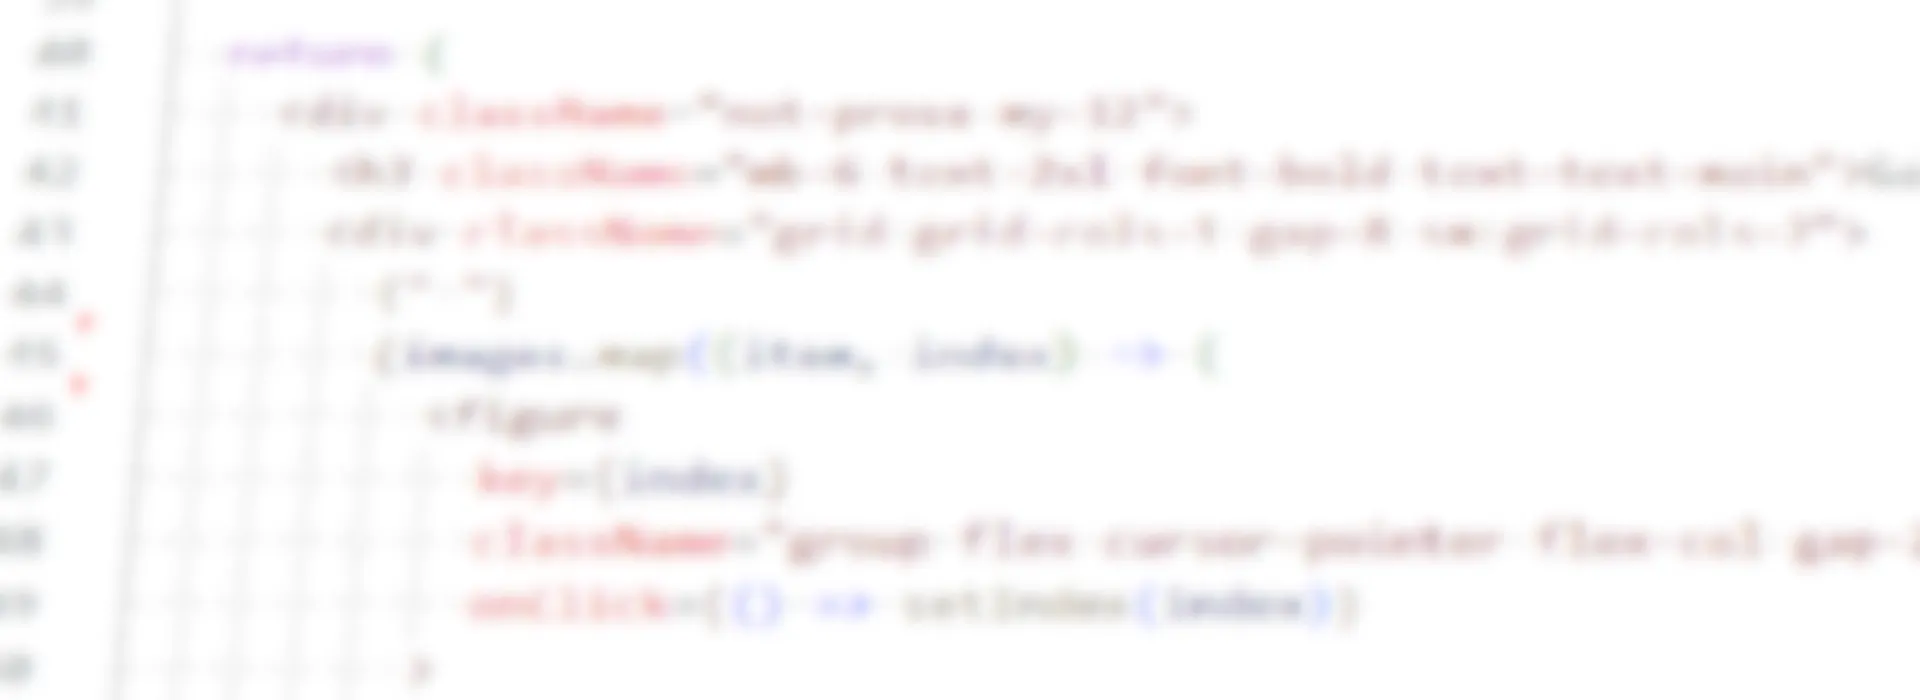
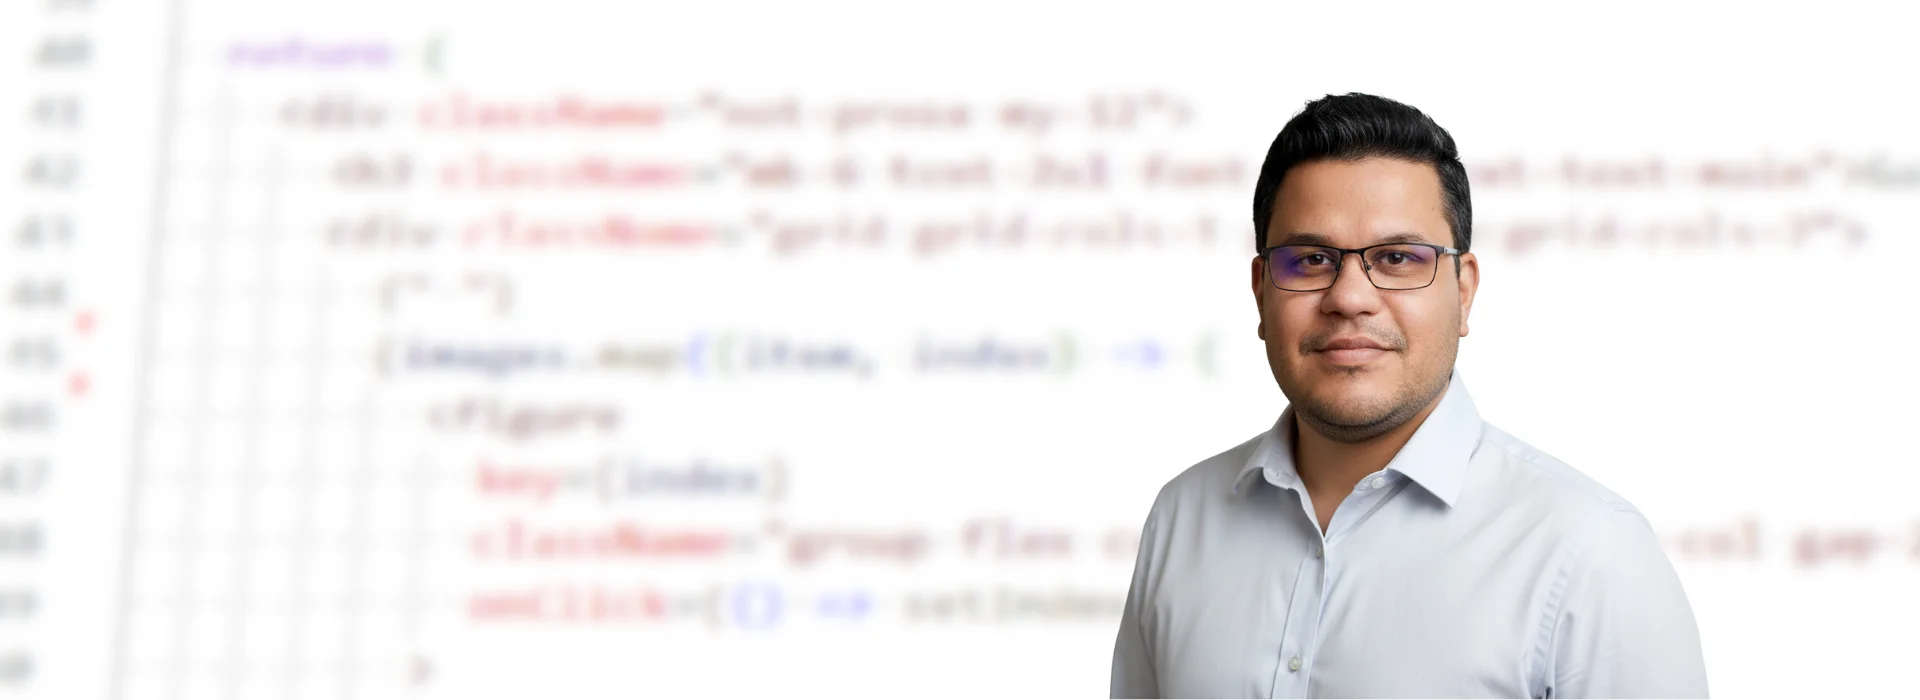
chore: general blog & hero adjustments

Changed region(s): [[0.5625, 0.12, 0.9062, 1.0]]

diff --git a/src/components/Hero.tsx b/src/components/Hero.tsx
@@ -4,29 +4,30 @@ export default function Hero() {
   return (
     <>
       <section className="hero-aspect-ratio relative">
-        <div className="hero-content-wrapper flex items-center justify-center text-center">
+        {/* Mobile: items-start (topo) | Desktop: items-center (centro) */}
+        <div className="hero-content-wrapper flex items-start justify-center text-center md:items-center">
           <div className="absolute inset-0 z-0">
             <div className="hero-background h-full w-full bg-cover bg-center bg-no-repeat"></div>
-
             <div className="absolute inset-0 bg-gradient-to-t from-background via-transparent dark:bg-background/10 dark:to-background/30"></div>
           </div>
 
           {/* Conteúdo do Hero (acima do overlay) */}
-          <div className="container relative z-10 mx-auto px-4">
-            <div className="mx-auto max-w-3xl">
-              <h1 className="mb-6 text-4xl font-bold text-text-main dark:bg-gradient-to-b dark:from-white dark:to-neutral-300 dark:bg-clip-text dark:text-transparent md:text-6xl">
+          {/* Mobile: text-left e padding top | Desktop: mx-auto e text-left */}
+          <div className="container relative z-10 px-4 pt-8 text-center md:pt-0 md:text-left">
+            <div className="md:max-w-md lg:max-w-3xl">
+              <h1 className="mb-6 text-4xl font-bold text-text-main drop-shadow-lg dark:bg-gradient-to-b dark:from-white dark:to-neutral-300 dark:bg-clip-text dark:text-transparent md:drop-shadow-none lg:text-6xl">
                 Wagner Sabor
               </h1>
 
-              <p className="mx-auto mb-8 max-w-2xl text-xl font-medium text-text-main/80 dark:text-neutral-200 md:text-2xl">
-                Desenvolvedor Especialista em Next.js e React.
-                <br />
+              <p className="mb-8 max-w-2xl px-4 text-xl font-medium text-text-main/80 dark:text-neutral-200 md:px-0 md:text-lg lg:px-0 lg:text-2xl">
+                Desenvolvedor Especialista em <strong>Next.js</strong> e{" "}
+                <strong>React</strong>. <br />
                 Transformando ideias em aplicações web modernas e performáticas.
               </p>
 
               <Link
                 href="/projects"
-                className="inline-block rounded-lg bg-primary px-8 py-3 text-lg font-bold text-white transition-colors hover:bg-primary-light"
+                className="inline-block rounded-lg bg-primary px-8 py-3 text-lg font-bold text-white transition-colors hover:bg-primary-light md:text-base"
               >
                 Conheça meus Projetos
               </Link>

diff --git a/src/components/BlogImage.tsx b/src/components/BlogImage.tsx
@@ -1,0 +1,55 @@
+import Image from "next/image";
+
+type BlogImageProps = {
+  src: string;
+  alt: string;
+  caption?: string;
+  aspectRatio?: "video" | "square" | "portrait";
+  size?: "small" | "medium" | "large" | "full";
+};
+
+export function BlogImage({
+  src,
+  alt,
+  caption,
+  aspectRatio = "video",
+  size = "full",
+}: BlogImageProps) {
+  const aspectClasses = {
+    video: "aspect-video", // 16:9
+    square: "aspect-square", // 1:1
+    portrait: "aspect-[3/4]", // 3:4
+    wide: "aspect-[21/9]", // 21:9 - NOVO
+    ultrawide: "aspect-[32/9]", // 32:9 - NOVO
+  };
+
+  const sizeClasses = {
+    tiny: "max-w-xs mx-auto", // ~320px - NOVO
+    small: "max-w-sm mx-auto", // ~384px
+    medium: "max-w-2xl mx-auto", // ~672px
+    large: "max-w-4xl mx-auto", // ~896px
+    xlarge: "max-w-6xl mx-auto", // ~1152px - NOVO
+    full: "w-full", // 100%F
+  };
+
+  return (
+    <figure className={`not-prose my-8 ${sizeClasses[size]}`}>
+      <div
+        className={`relative ${aspectClasses[aspectRatio]} w-full overflow-hidden rounded-lg border border-black/10 dark:border-white/10`}
+      >
+        <Image
+          src={src}
+          alt={alt}
+          fill
+          className="object-cover"
+          sizes="(max-width: 768px) 100vw, (max-width: 1200px) 80vw, 1200px"
+        />
+      </div>
+      {caption && (
+        <figcaption className="mt-2 text-center text-sm text-text-muted">
+          {caption}
+        </figcaption>
+      )}
+    </figure>
+  );
+}

diff --git a/src/app/about/page.tsx b/src/app/about/page.tsx
@@ -1,3 +1,6 @@
+import Image from "next/image";
+import ProfileWorking from "../../../public/img/profile_working.webp";
+
 export default function AboutPage() {
   return (
     <main className="container mx-auto max-w-4xl px-4 py-16 md:py-24">
@@ -13,6 +16,11 @@ export default function AboutPage() {
           código robusto com design intuitivo, para criar produtos que as
           pessoas amam usar.
         </p>
+        <Image
+          src={ProfileWorking}
+          alt="Foto de perfil trabalhando em um laptop"
+          className="w-full rounded-lg shadow-lg"
+        />
 
         {/* Os h2 e ul dentro de .prose serão estilizados automaticamente */}
         <h2>Minha Filosofia</h2>

diff --git a/src/app/blog/[slug]/page.tsx b/src/app/blog/[slug]/page.tsx
@@ -1,7 +1,6 @@
-// src/app/blog/[slug]/page.tsx
-
 import { getPostBySlug, getAllPostsMeta } from "@/lib/posts";
 import { ImageGallery } from "@/components/ImageGallery";
+import { BlogImage } from "@/components/BlogImage";
 import { Comments } from "@/components/Comments";
 import { MDXRemote } from "next-mdx-remote/rsc";
 import { notFound } from "next/navigation";
@@ -63,6 +62,7 @@ export default async function PostPage({ params }: Props) {
                   basePath={meta.galleryBasePath || ""}
                 />
               ),
+              BlogImage,
             }}
           />
         </article>
